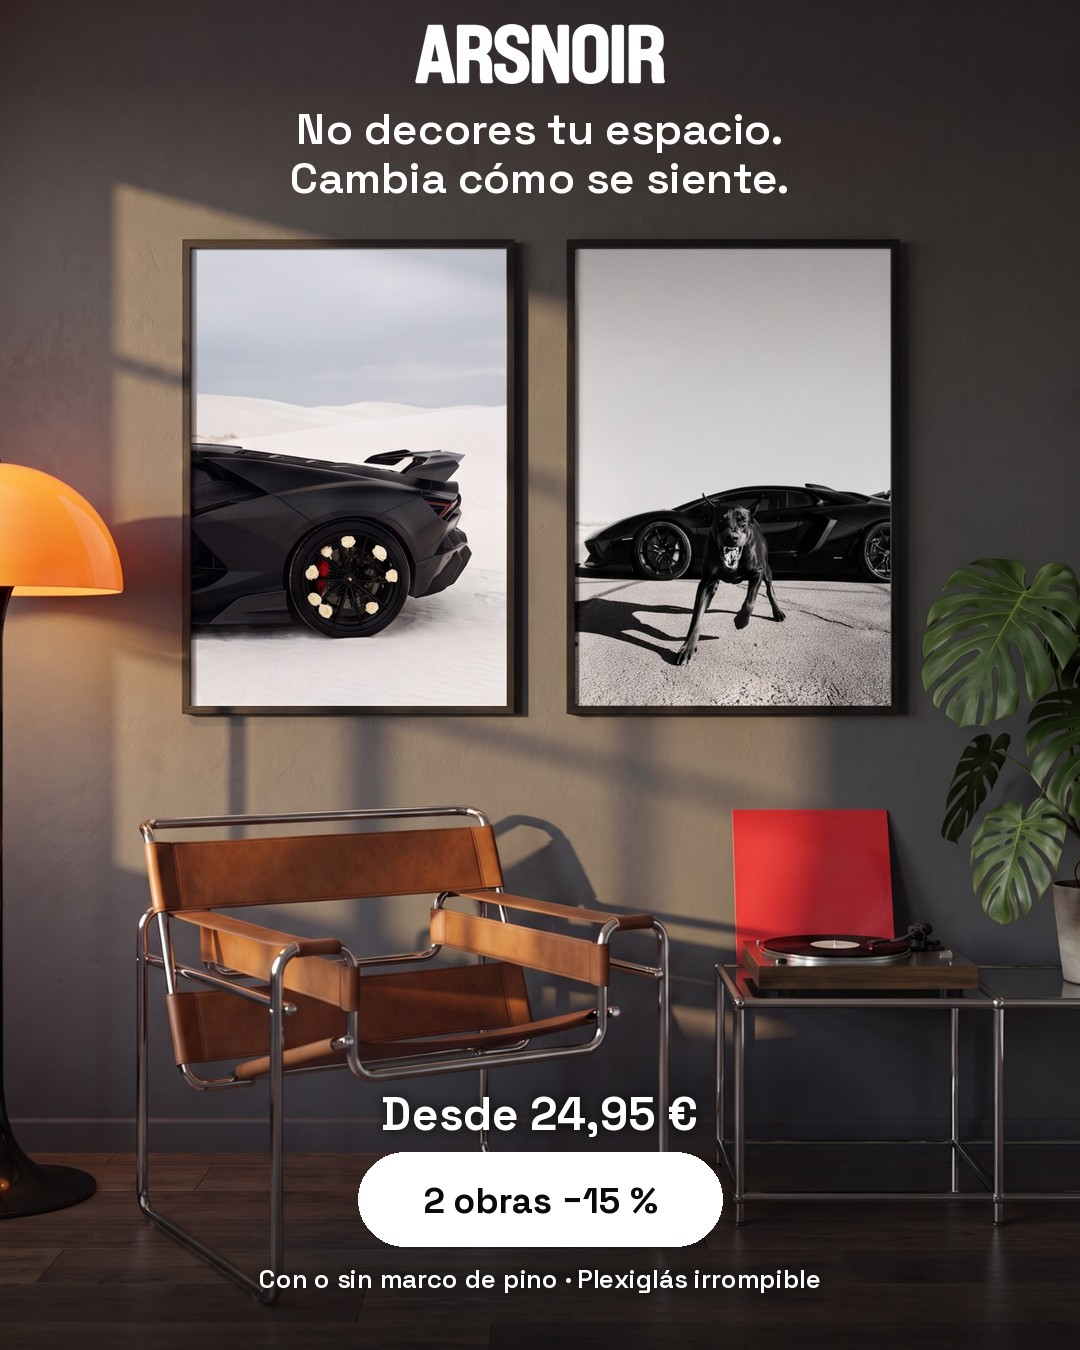
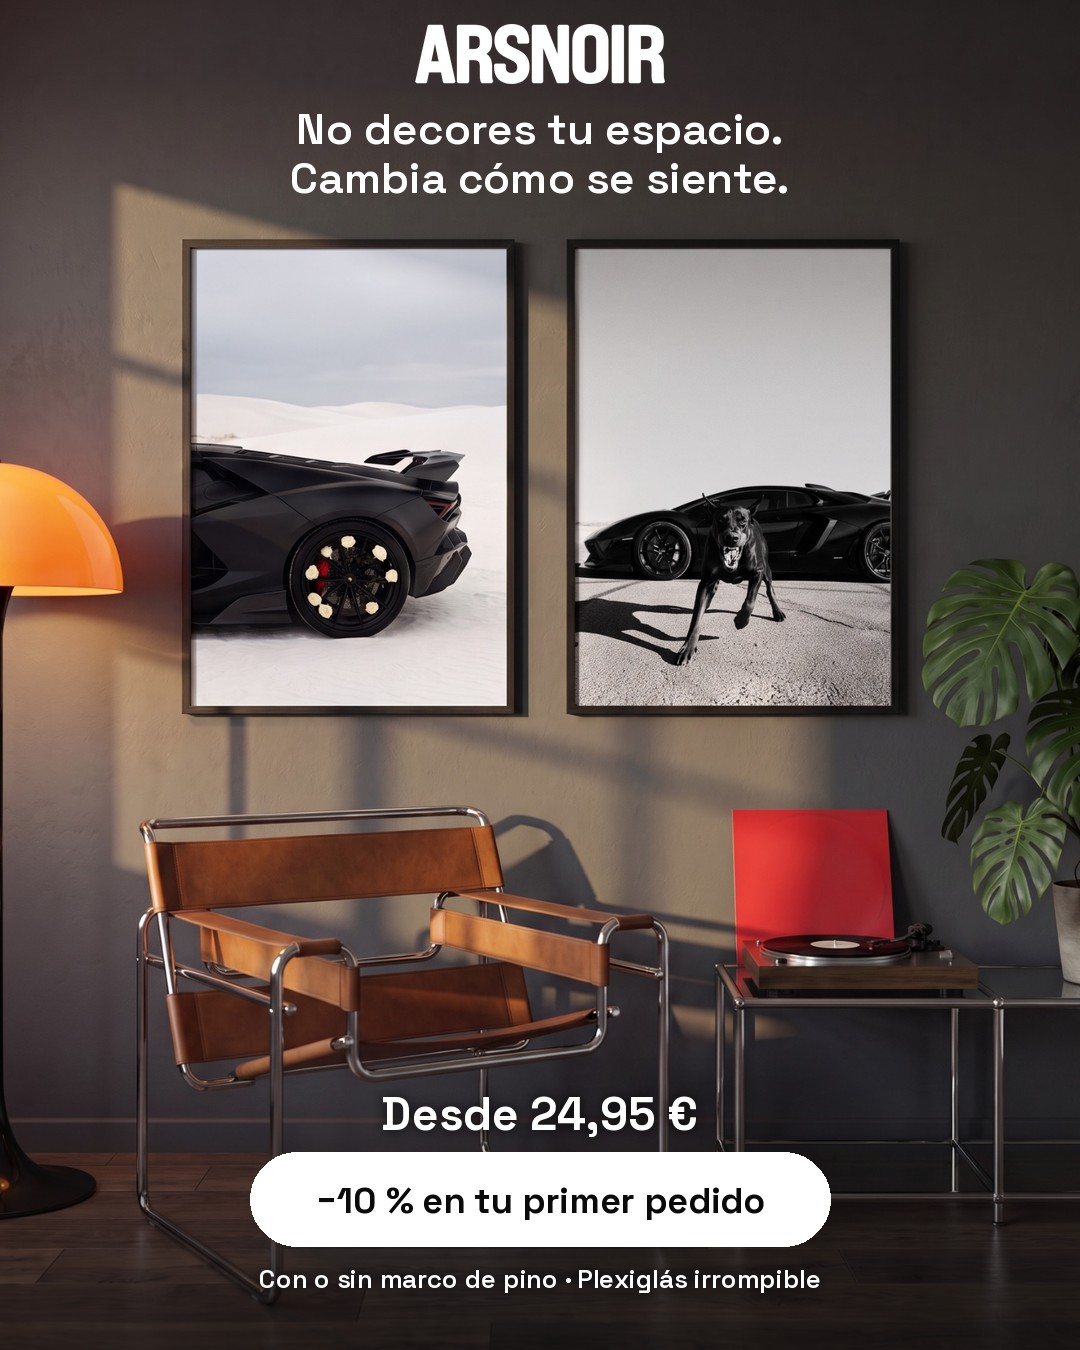
Meta Ads: c18 button uses the live first-order offer «−10 % en tu primer pedido» (WELCOME10)
Claude-Session: https://claude.ai/code/session_0194VZ5ga5soZRAmzpfCecMg

Changed region(s): [[0.2139, 0.84, 0.7944, 0.9333]]

diff --git a/data/meta-ads-creativos.py b/data/meta-ads-creativos.py
@@ -678,7 +678,7 @@ brand_button_ad(
 
 brand_button_ad(
     "c18-pareja-motor-pack", PAIR,
-    ["No decores tu espacio.", "Cambia cómo se siente."], "2 obras −15 %",
+    ["No decores tu espacio.", "Cambia cómo se siente."], "−10 % en tu primer pedido",
     price="Desde 24,95 €", note="Con o sin marco de pino · Plexiglás irrompible",
 )
 
